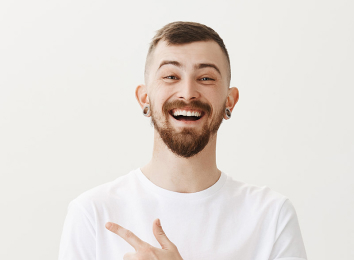
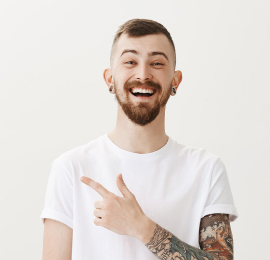
поправил поправленные фото

diff --git a/index.html b/index.html
@@ -112,9 +112,9 @@
         <ul>
           <li>
             <img
-              src="./images/photos/nikolaj.jpg"
+              src="./images/photos/nik.jpg"
               alt="фотография Николая Курченко"
-              width="354"
+              width="270"
               height="260"
             />
             <h3>Николай Кучеренко</h3>
@@ -130,7 +130,7 @@
             <img
               src="./images/photos/olga.jpg"
               alt="Фотография Ольги Ивановой"
-              width="354"
+              width="270"
               height="260"
             />
             <h3>Ольга Иванова</h3>
@@ -144,9 +144,9 @@
           </li>
           <li>
             <img
-              src="./images/photos/andreu.jpg"
+              src="./images/photos/and.jpg"
               alt="фотография Андрея Шевченко"
-              width="354"
+              width="270"
               height="260"
             />
             <h3>Андрей Шевченко</h3>
@@ -162,7 +162,7 @@
             <img
               src="./images/photos/ivan.jpg"
               alt="фотография Ивана Николаева"
-              width="354"
+              width="270"
               height="260"
             />
             <h3>Иван Николаев</h3>
